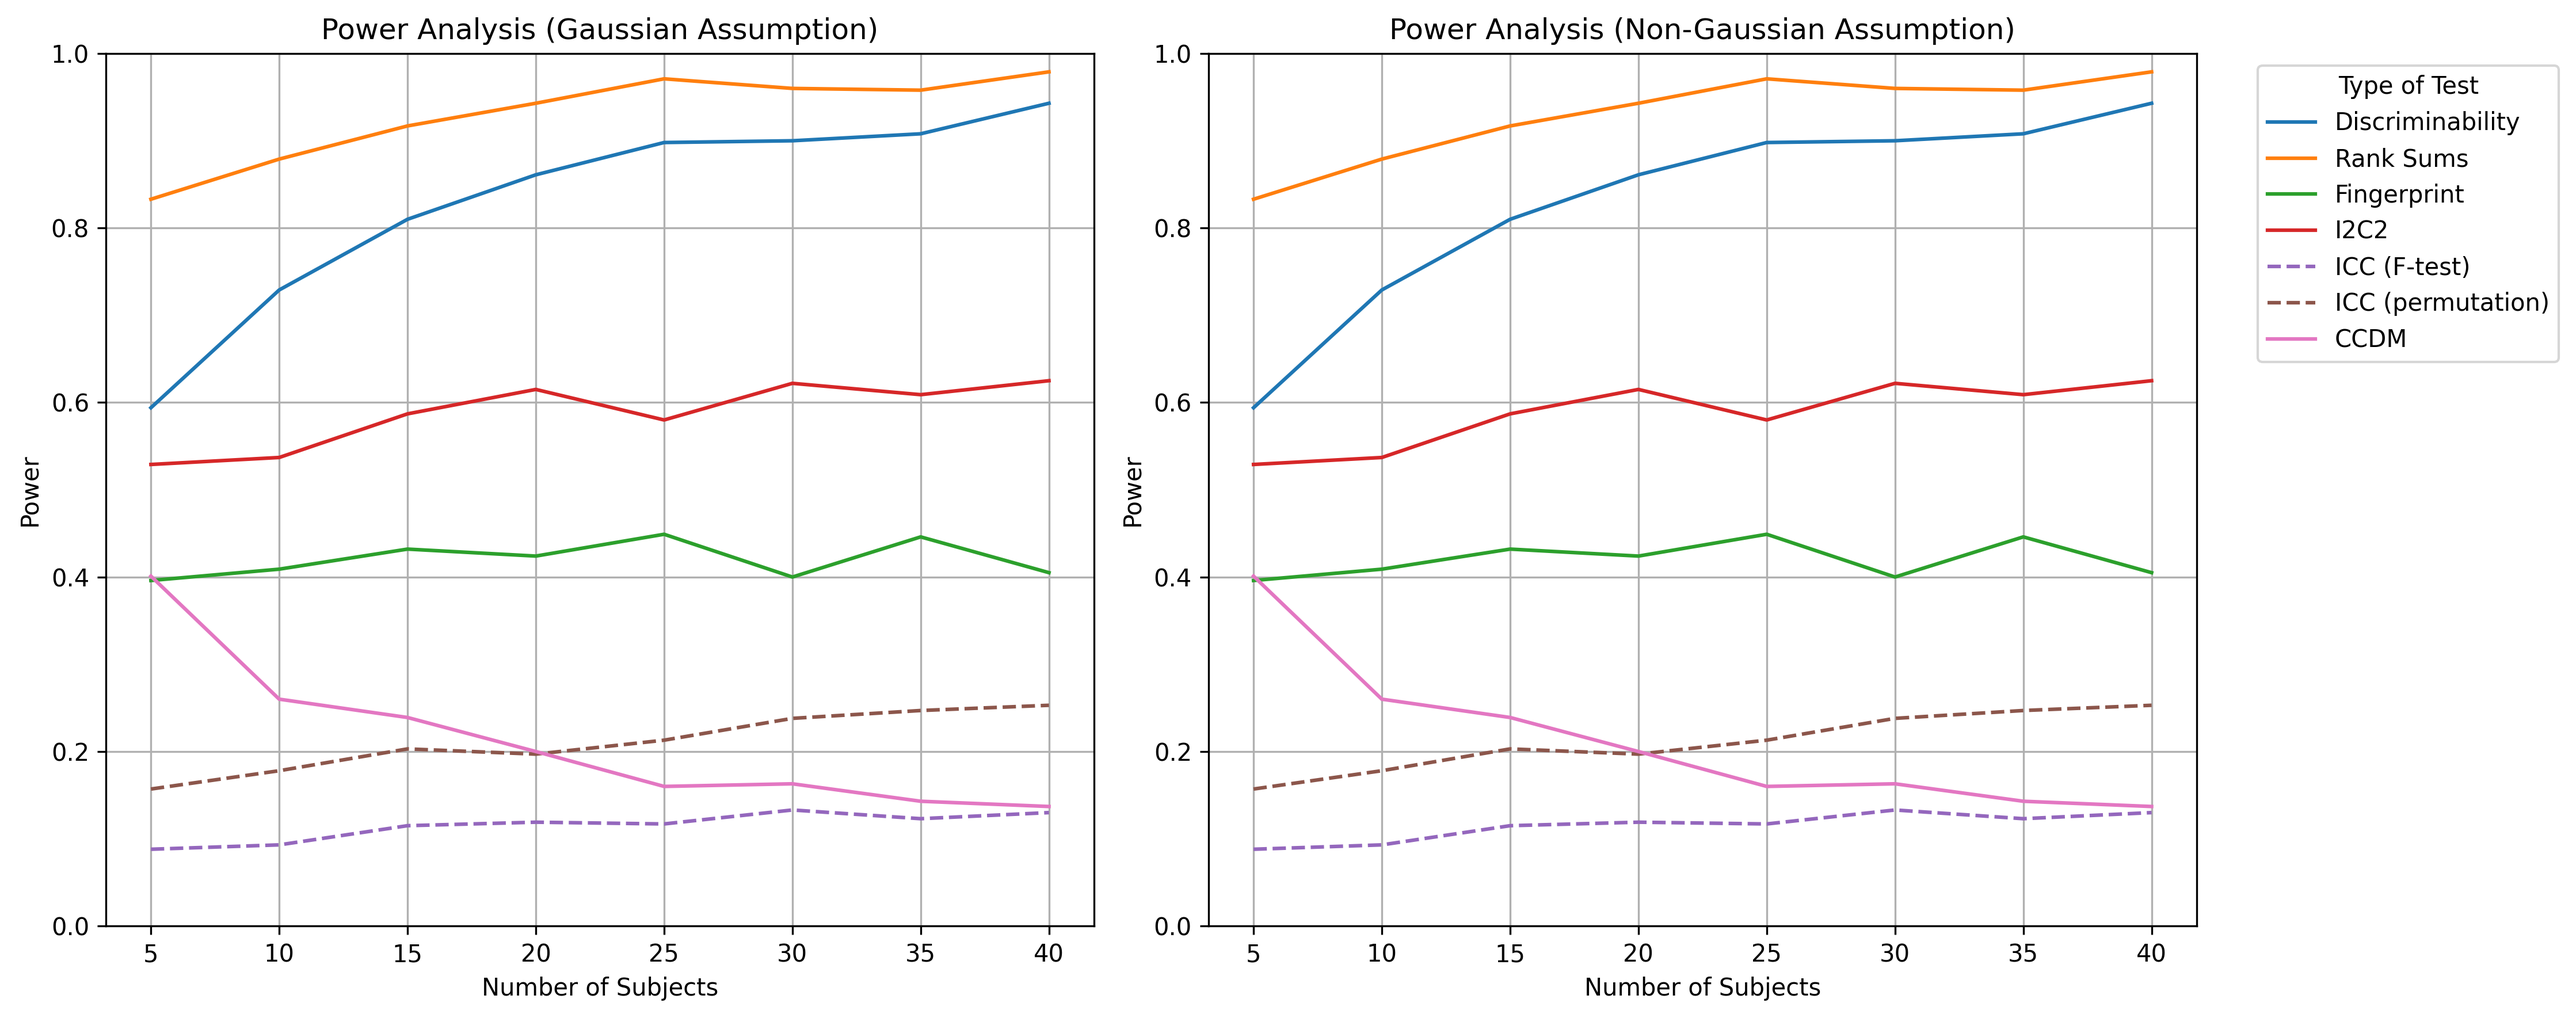
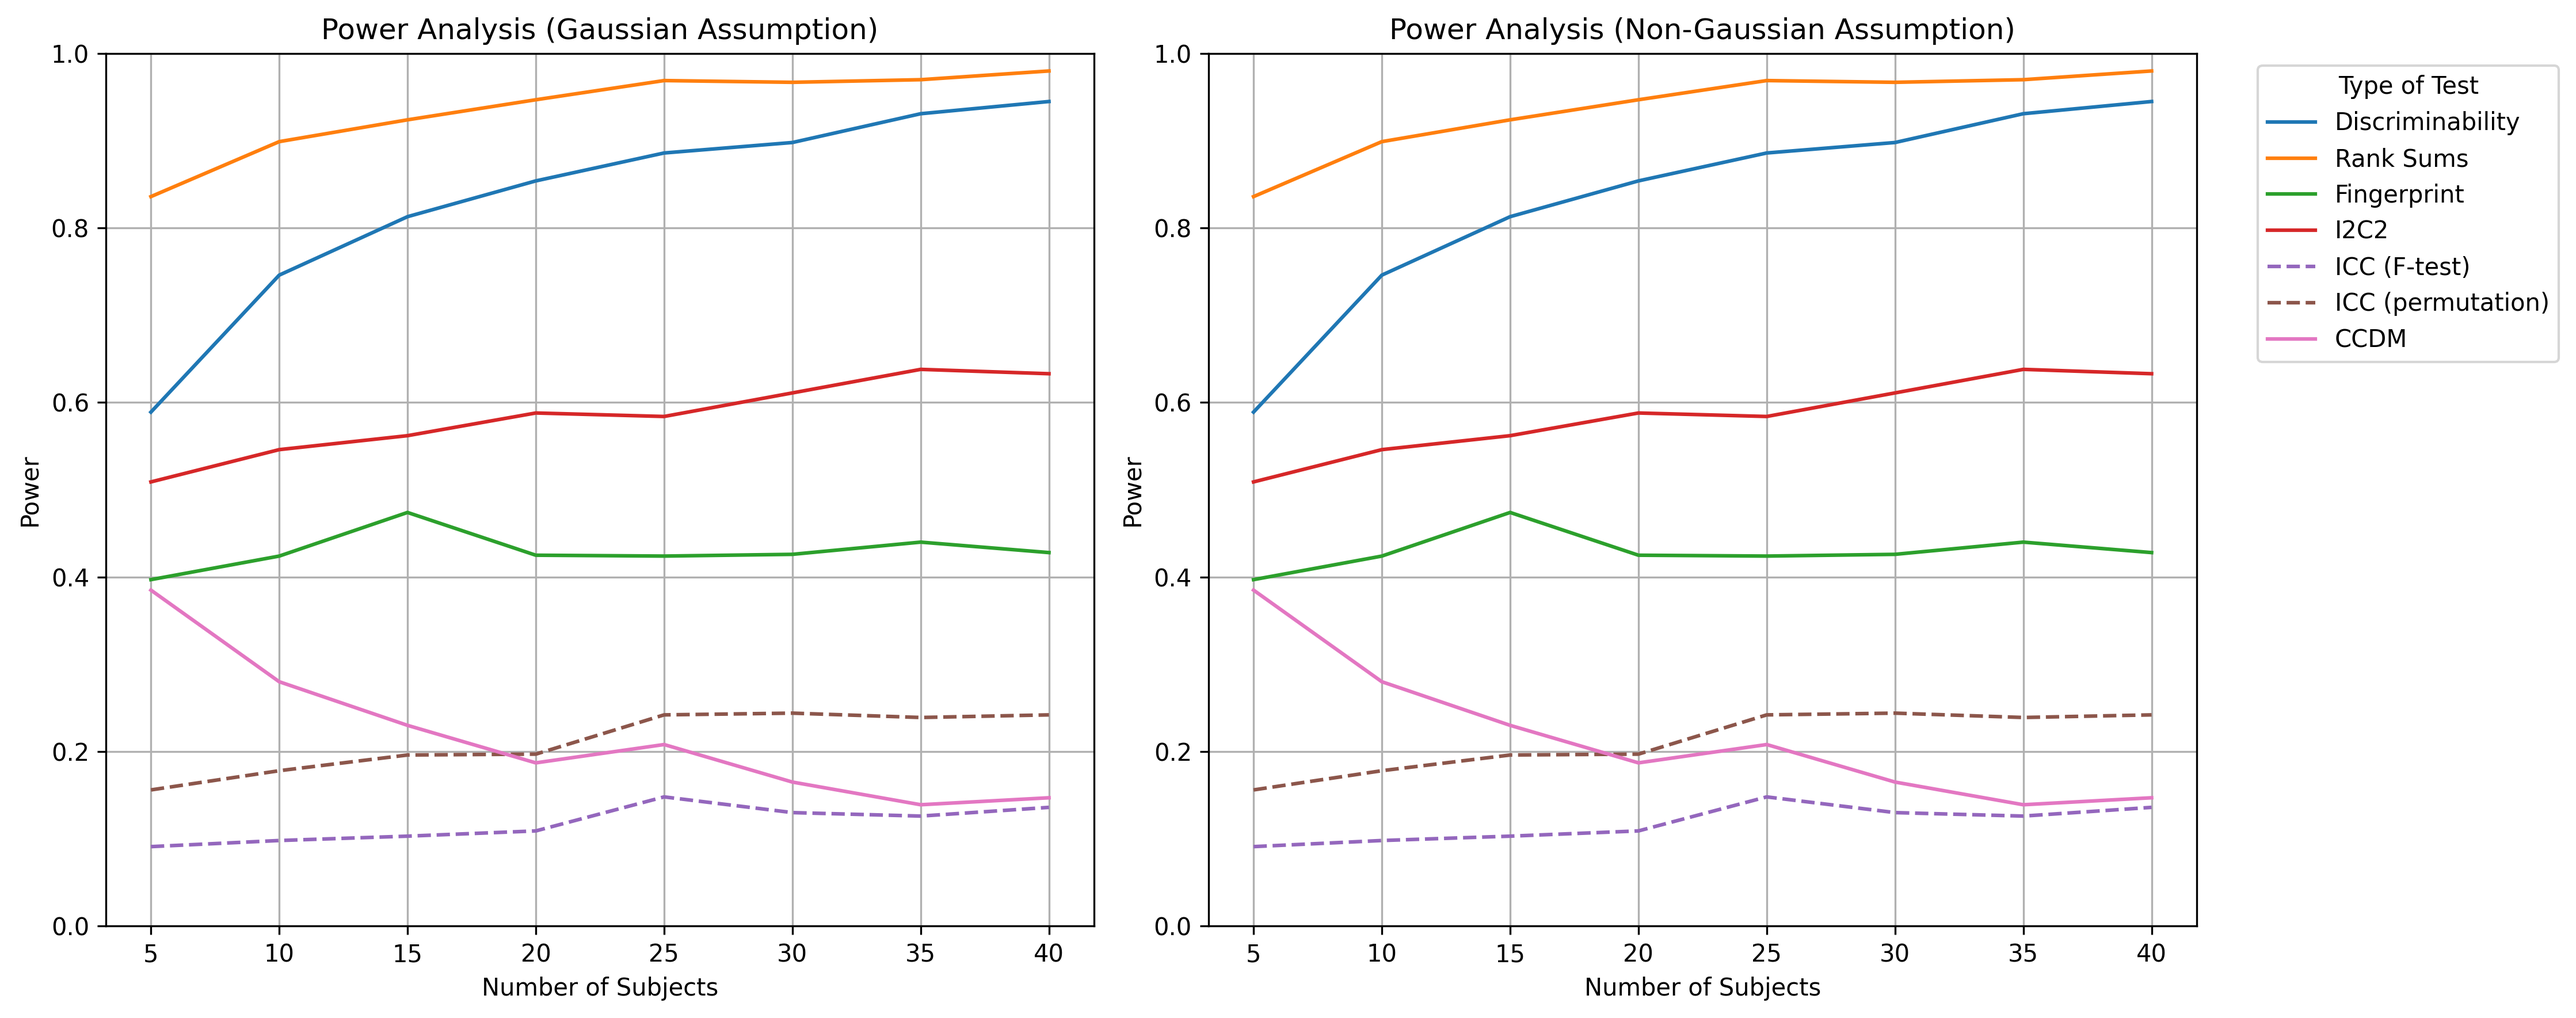
Remove obsolete analysis images and update README.md to reflect new project focus on Measurement System Analysis (MSA). Adjust variance components table for improved accuracy in results reporting.

diff --git a/README.md b/README.md
@@ -1,51 +1,117 @@
-# Statistical-Repeatability-Analysis
+# Comprehensive Measurement System Analysis (MSA)
 
 ## Abstract
 
-This repository encompasses the full implementation of advanced statistical methodologies focused on quantifying and analyzing repeatability metrics within high-dimensional datasets. Grounded in the framework proposed by Zeyi Wang et al. (2020), the project uses discriminability measures, rank-based metrics, and permutation-driven hypothesis testing across diverse dataset configurations. The objective is to use systemic patterns in data reproducibility while optimizing preprocessing pipelines and benchmarking robustness under extreme conditions.
+This repository houses a robust implementation of advanced Measurement System Analysis (MSA) techniques designed to evaluate measurement reliability and repeatability in experimental datasets. Building upon established methodologies in metrology and expanding with novel statistical approaches, this framework provides comprehensive assessment of measurement systems through multiple complementary metrics. The implementation offers particular value for analyzing small-magnitude measurements with potential noise interference, such as those encountered in vibration analysis, material testing, and precision engineering applications.
 
----
+## Research Background
 
-## Scope of Work
+Reliable measurement processes are fundamental to scientific research and quality control in engineering disciplines. Traditional Gage R&R (Repeatability and Reproducibility) studies often fail to capture the full complexity of modern measurement systems, particularly when dealing with high-dimensional data or when assumptions of classical statistical methods are violated. This implementation draws inspiration from recent advances in statistical repeatability analysis, including the work of Koo & Li (2016) on ICC interpretation guidelines and emerging methodologies for discriminability and fingerprinting metrics.
 
-1. **Methodological Replication**: 
-   - Deploy rigorous statistical measures derived from multivariate and nonparametric methodologies.
-   - Validate the theoretical underpinnings of discriminability, fingerprinting, and rank sums in empirical contexts.
+## Implemented Methodologies
 
-2. **Metric Evaluation**:
-   - Examine interdependencies between repeatability statistics and their computational convergence properties.
-   - Explore boundary cases (e.g., Gaussian assumptions, batch effects).
+The framework implements seven distinct but complementary measurement system evaluation techniques:
 
-3. **Augmented Applications**:
-   - Extend statistical metrics to accommodate scaling challenges and batch-level data perturbations.
-   - Provide actionable insights for repeatability optimization in functional data pipelines.
+1. **Discriminability (D_hat)** - Probabilistic measure of a measurement system's ability to distinguish between different test specimens, calculated through pairwise comparison of within-subject and between-subject distances.
 
----
+2. **Fingerprint Index (F_index)** - Evaluates the uniqueness of measurement signatures across test specimens, providing insights into measurement system's identification capabilities.
 
-## Technical Implementations
+3. **I2C2 (Image Intraclass Correlation Coefficient)** - Specialized intraclass correlation metric designed for handling two-dimensional measurement data with spatial or temporal correlations.
 
-### 1. **Discriminability Analysis**
-The discriminability metric encapsulates a probabilistic framework for evaluating intersubject repeatability. Its computation leverages multi-level nested permutations and nonparametric rank assignments across multivariate embeddings. Specific emphasis is placed on resolving computational bottlenecks in \(O(n^3)\) scaling scenarios.
+4. **Rank Sum Statistic** - Non-parametric approach for assessing repeatability using rank-based methods, offering robustness against non-normal distributions.
 
-### 2. **Fingerprinting Metrics**
-Fingerprint indices operationalize a pairwise comparison methodology, emphasizing probabilistic alignment in subject-specific feature subspaces. Advanced matching heuristics ensure robustness to dimensionality reduction artifacts.
+5. **ICC (Intraclass Correlation Coefficient)** - Classical measure of reliability that quantifies the ratio of between-subject variance to total variance, with interpretative guidelines.
 
-### 3. **Rank-Based Summation Techniques**
-Rank sums are computed as ordinal transformations across subspaces defined by pairwise proximity matrices. This method introduces asymptotically unbiased estimators for batch-invariant evaluations.
+6. **CCDM (Correlation Coefficient Deviation Metric)** - Measures the consistency of correlation patterns across repeated measurements.
 
----
+7. **Components of Variation** - ANOVA-based decomposition of variance sources (within-part vs. between-part) to identify dominant error contributions.
 
+8. **X-bar Control Charts** - Statistical process control visualization for monitoring measurement stability across repetitions.
 
-![screenshot](analysis_icc_disc.png)
+## Visualization Capabilities
 
-## Repository Structure
+The implementation generates comprehensive visualizations that aid in interpreting measurement system performance:
 
-```plaintext
+<div align="center">
+    <img src="analysis_icc_disc.png" alt="ICC vs Discriminability Relationship" width="45%">
+    <img src="analysis_performance.png" alt="Method Performance Comparison" width="45%">
+    <p><em>Left: Theoretical and observed relationship between ICC and Discriminability metrics. Right: Performance comparison across different repeatability measures.</em></p>
+</div>
+
+<div align="center">
+    <img src="analysis_Project Details_xbar.png" alt="X-bar Control Chart" width="45%">
+    <img src="analysis_power_analysis.png" alt="Power Analysis" width="45%">
+    <p><em>Left: X-bar control chart showing measurement stability across repetitions. Right: Statistical power analysis for different measurement metrics under varying sample sizes.</em></p>
+</div>
+
+## Key Features
+
+- **Optimized Memory Management**: Implementation handles large datasets through batch processing and efficient memory allocation strategies.
+- **Numerical Stability**: Special handling for extremely small variations that could lead to floating-point precision issues.
+- **Comprehensive Reporting**: Detailed variance component analysis with standardized Gage R&R metrics (EV, AV, GRR, PV percentages).
+- **Multiple Visualization Options**: X-bar charts, variance component visualizations, power curves, and cross-metric relationship plots.
+- **Statistical Power Analysis**: Simulation-based assessment of each metric's sensitivity under different sample sizes and variance conditions.
+
+## Technical Details
+
+The framework employs one-way ANOVA models, Expected Mean Squares (EMS) for variance component estimation, control charting principles, and specialized distance-based metrics. The implementation provides robust handling of:
+
+- Datasets with extremely small variations
+- High-dimensional measurement spaces
+- Non-Gaussian measurement distributions
+- Multiple repetition configurations
+- Comparative assessment across different boundary conditions
+
+## Usage
+
+The analysis pipeline accepts Excel-formatted measurement data with the following structure:
+- First column: Frequency or sample identifier
+- Subsequent columns: Repeated measurements of the same characteristic
+
+```python
+# Example usage
+analyzer = ComprehensiveMSA()
+analyzer.analyze_measurement_system('Project Details.xlsx')
+analyzer.visualize_results()
+```
+
+## Results Interpretation
+
+The framework provides both numerical assessments and visual aids for interpretation:
+
+- **ICC Values & Interpretation**: < 0.5 (Poor), 0.5-0.75 (Moderate), 0.75-0.9 (Good), > 0.9 (Excellent)
+- **Gage R&R Guidelines**: < 10% (Excellent), 10-30% (Acceptable), > 30% (Unacceptable)
+- **Number of Distinct Categories (ndc)**: > 5 (Generally acceptable for measurement systems)
+
+## Data Requirements
+
+For optimal results, the measurement data should contain:
+- Sufficient number of test specimens (parts/frequencies) to capture part-to-part variation
+- Multiple repetitions per specimen to assess repeatability
+- Preferably consistent experimental conditions to isolate true measurement system variation
+
+## Project Structure
+
+```
 .
-├── data/                             # Raw dataset files
-├── src/
-│   ├── discriminability.py           # Discriminability implementation
-│   ├── fingerprinting.py             # Fingerprinting implementation
-│   ├── rank_sums.py                  # Rank sums implementation
-├── analysis_results/                 # Numerical results
-├── README.md            
+├── main.py                                # Main implementation file
+├── analysis_results/                      # Generated analysis outputs
+├── Project Details*.xlsx                  # Example measurement datasets
+├── Project Surface Bonded.xlsx            # Additional measurement dataset
+├── analysis_*.png                         # Generated visualizations
+├── variance_components_table.csv          # Summary of variance components
+└── README.md                              # This documentation
+```
+
+## Future Work
+
+- Implementation of multi-way ANOVA models for more complex experimental designs
+- Integration of machine learning approaches for outlier detection
+- Development of adaptive preprocessing techniques based on measurement characteristics
+- Extension to handle multivariate response variables
+
+## References
+
+- Koo, T. K., & Li, M. Y. (2016). A Guideline of Selecting and Reporting Intraclass Correlation Coefficients for Reliability Research. *Journal of Chiropractic Medicine*, 15(2), 155-163.
+- AIAG (2010). Measurement Systems Analysis Reference Manual, 4th edition.
+- Wheeler, D. J., & Lyday, R. W. (1989). Evaluating the Measurement Process, 2nd edition.
